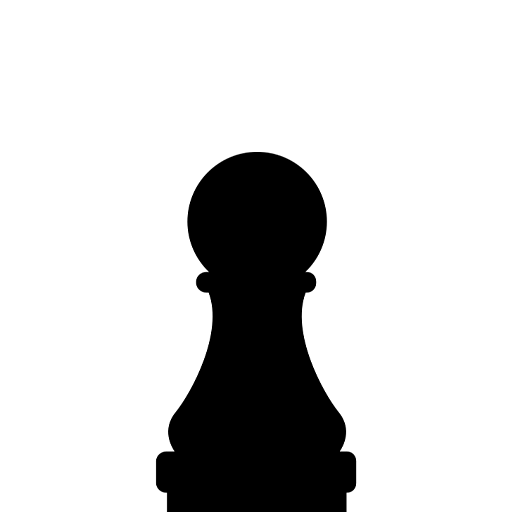
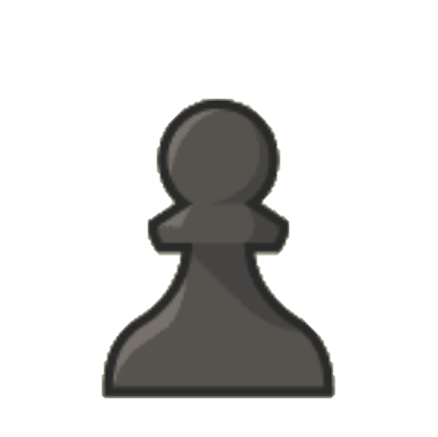
GUI and chess pieces redesign

Changed region(s): [[0.2078, 0.2082, 0.7717, 1.0]]

diff --git a/global/Static.cs b/global/Static.cs
@@ -1,6 +1,4 @@
-using ChessGame.Global;
-
-namespace ChessGame.Global
+namespace ChessGame.Global
 {
     public static class Static
     {
@@ -13,14 +11,25 @@ namespace ChessGame.Global
             return (rank + file) % 2 == 0 ? Color.FromArgb(
                 alpha: 255,
                 red: 200,
-                green: 200,
-                blue: 200
+                green: 230,
+                blue: 201
                 ) : Color.FromArgb(
                     alpha: 255,
-                    red: 100,
-                    green: 100,
-                    blue: 100
+                    red: 85,
+                    green: 139,
+                    blue: 110
                     );
+            /*Color.FromArgb(
+            alpha: 255,
+            red: 240,
+            green: 217,
+            blue: 181
+            ) : Color.FromArgb(
+                alpha: 255,
+                red: 181,
+                green: 136,
+                blue: 99
+                );*/
         }
         public static Image? LoadPieceImage(IPiece? piece)
         {

diff --git a/gui/GUI.cs b/gui/GUI.cs
@@ -59,14 +59,21 @@ namespace ChessGame
         public static void ColorLocations(List<Location> locations, Color color)
         {
             foreach (Location location in locations)
+            {
                 chessboardPictureBoxes[location.Rank, location.File].BackColor = color;
+                chessboardPictureBoxes[location.Rank, location.File].BorderStyle = BorderStyle.FixedSingle;
+
+            }
         }
 
         public static void ResetSquareColors()
         {
             for (int rank = 0; rank < Static.NUMBER_OF_RANKS; rank++)
                 for (int file = 0; file < Static.NUMBER_OF_FILES; file++)
+                {
                     chessboardPictureBoxes[rank, file].BackColor = Static.GetSquareColor(rank, file);
+                    chessboardPictureBoxes[rank, file].BorderStyle = BorderStyle.None;
+                }
         }
     }
 }

diff --git a/game/Game.cs b/game/Game.cs
@@ -131,7 +131,7 @@ namespace ChessGame.GameNamespace
         }
         public void ShowAvailableMoves(List<Location> possibleMovements)
         {
-            GUI.ColorLocations(possibleMovements, Color.Gold);
+            GUI.ColorLocations(possibleMovements, Color.FromArgb(255, 144, 238, 144)); //173, 216, 230    144, 238, 144     255, 255, 153
         }
         public void HandleCheck()
         {
@@ -141,6 +141,8 @@ namespace ChessGame.GameNamespace
         {
             soundPlayer.PlayCheckmateSound();
             GUI.ShowCheckmateDialog();
+            Application.Restart();
+            Environment.Exit(0);
         }
         public void HandlePromotionRequest()
         {

diff --git a/gui/GUI.Designer.cs b/gui/GUI.Designer.cs
@@ -33,12 +33,11 @@
             // 
             // GUI
             // 
-            AutoScaleDimensions = new SizeF(8F, 20F);
+            AutoScaleDimensions = new SizeF(7F, 15F);
             AutoScaleMode = AutoScaleMode.Font;
             AutoSize = true;
-            ClientSize = new Size(148, 3);
+            ClientSize = new Size(886, 376);
             Icon = (Icon)resources.GetObject("$this.Icon");
-            Margin = new Padding(3, 4, 3, 4);
             Name = "GUI";
             Text = "Chess";
             ResumeLayout(false);
